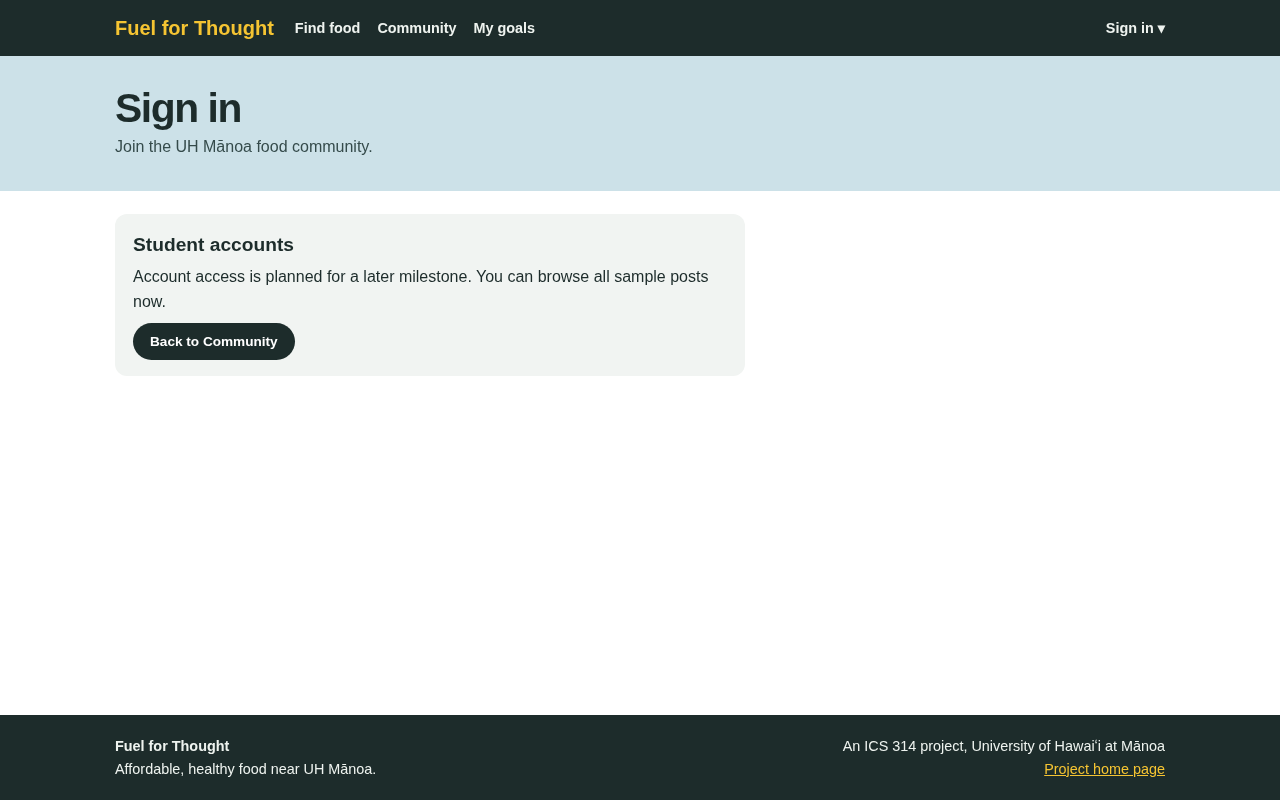
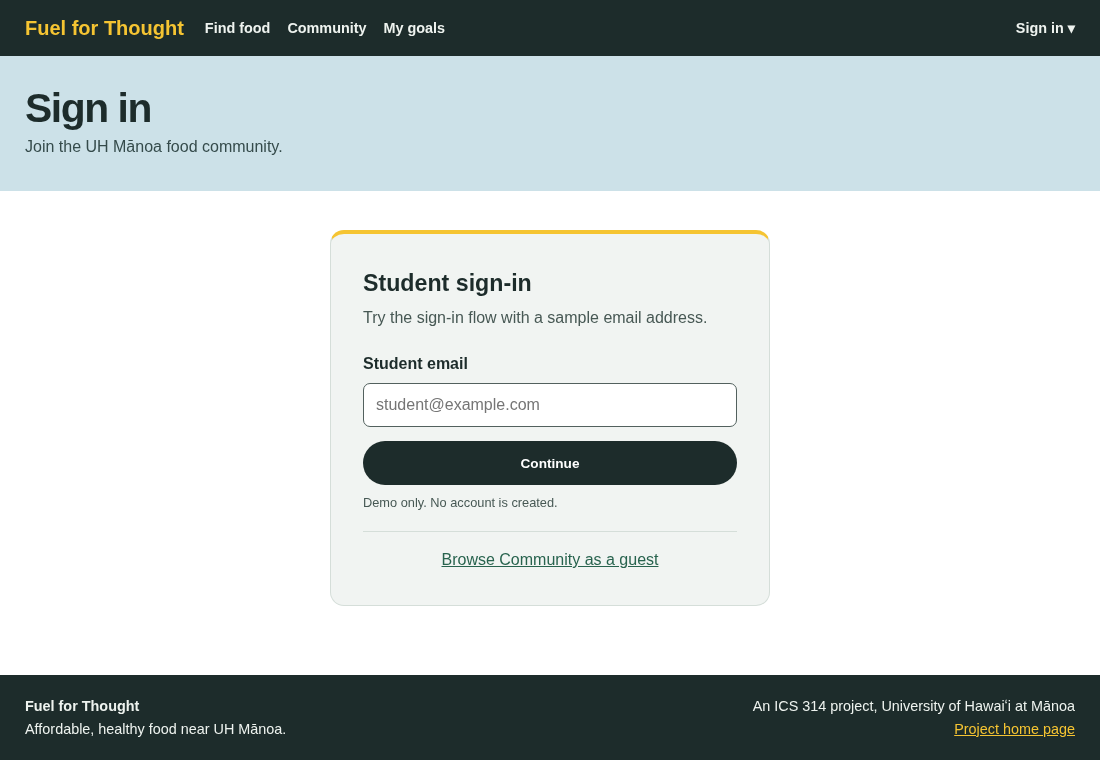
Add student sign-in mockup

diff --git a/public/style.css b/public/style.css
@@ -128,3 +128,21 @@ dd { margin: 0 0 10px; }
   .place-stats { grid-template-columns: repeat(2, minmax(0, 1fr)); }
   .menu-table { font-size: .85rem; }
 }
+
+.sign-in-card {
+  width: min(100%, 440px);
+  margin: 16px auto 24px;
+  padding: clamp(20px, 5vw, 32px);
+  border: 1px solid var(--line);
+  border-top: 4px solid var(--gold);
+  border-radius: 14px;
+  background: var(--soft);
+}
+.sign-in-card h2 { margin: 0; font-size: 1.45rem; }
+.sign-in-card h2 + p { margin: 4px 0 22px; color: var(--muted); }
+.sign-in-card label { display: block; margin-bottom: 6px; font-weight: 700; }
+.sign-in-card input, .sign-in-card .button { width: 100%; min-height: 44px; }
+.sign-in-card input { padding: 8px 12px; border: 1px solid #52615e; border-radius: 7px; }
+.sign-in-card .button { margin-top: 14px; border: 0; cursor: pointer; }
+.sign-in-card .fine { margin: 8px 0 18px; }
+.sign-in-card .guest-link { display: block; border-top: 1px solid var(--line); padding-top: 16px; text-align: center; }

diff --git a/public/sign-in.js b/public/sign-in.js
@@ -1,0 +1,11 @@
+const form = document.querySelector('#sign-in-preview');
+const status = document.querySelector('#sign-in-status');
+
+form.addEventListener('submit', event => {
+  event.preventDefault();
+  status.textContent = 'Demo complete. No sign-in request was sent.';
+});
+
+form.addEventListener('input', () => {
+  status.textContent = 'Demo only. No account is created.';
+});
